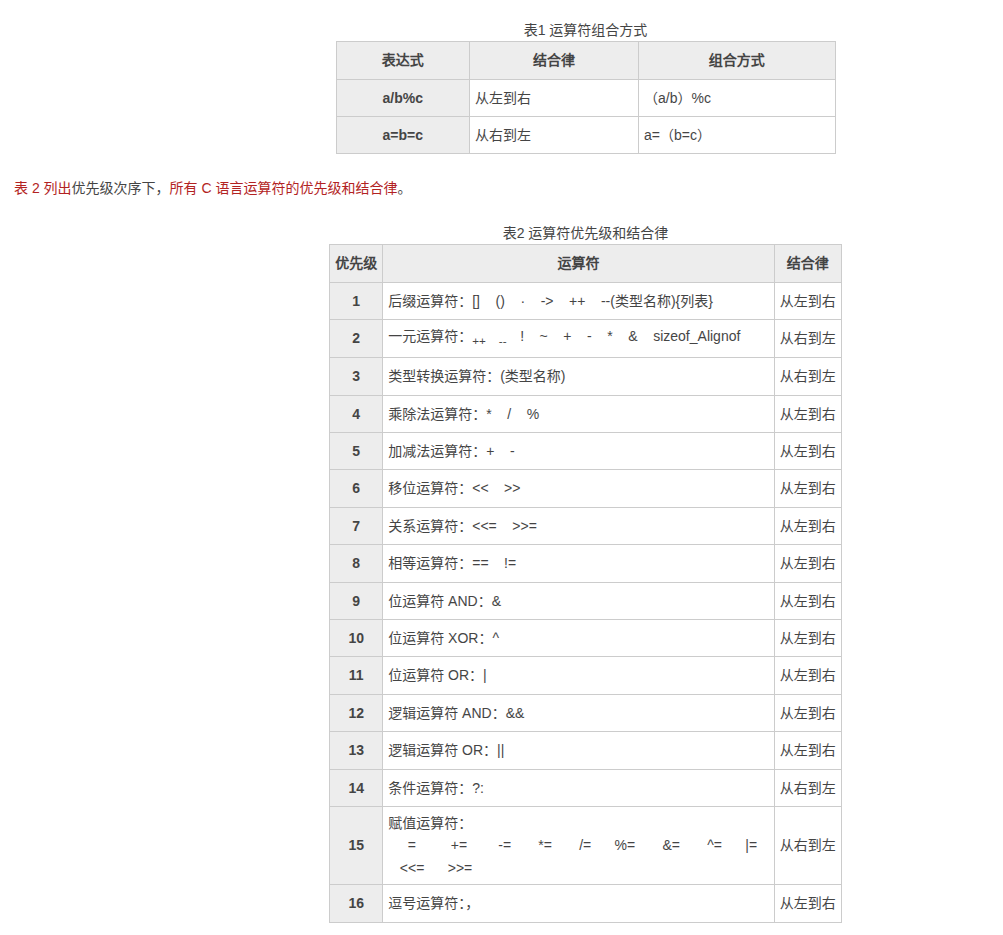
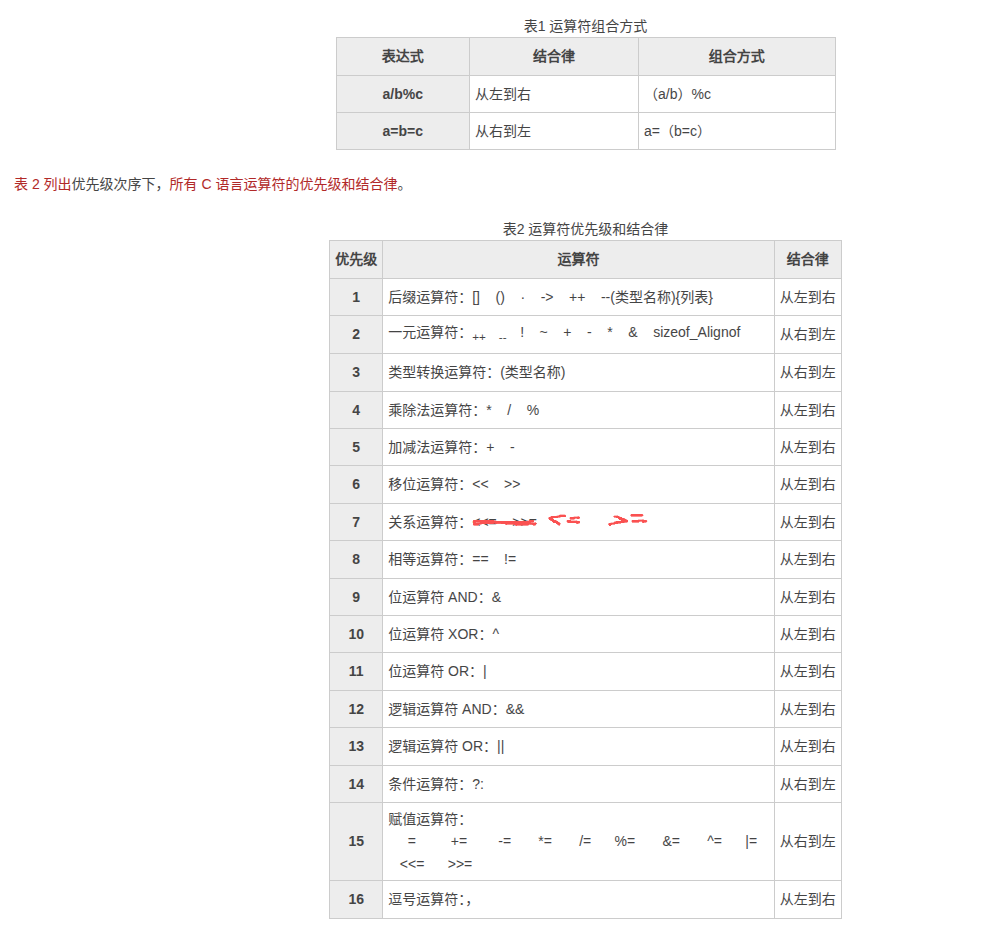
> compile NEMU SUAT25060203 罗智强 Linux zq 6.14.0-37-generic #37~24.04.1-Ubuntu SMP PREEMPT_DYNAMIC Thu Nov 20 10:25:38 UTC 2 x86_64 x86_64 x86_64 GNU/Linux  23:45:53 up 4 days,  5:32,  1 user,  load average: 0.63, 0.76, 0.73

diff --git a/nemu/src/monitor/sdb/expr.c b/nemu/src/monitor/sdb/expr.c
@@ -45,13 +45,15 @@ static struct rule {
   {"&&",TK_AND},                          // 逻辑与     264 
   {"\\|\\|",TK_OR},                       // 逻辑或     265 
   {"[a-zA-Z_][a-zA-Z0-9_]*",TK_VAR},      // 变量名     266
+  
+  {"\\<",'<'},                            // 小于       60
+  {"\\>",'>'},                            // 大于       62
   {"\\+", '+'},                            // 加号       43
   {"-", '-'},                              // 减号       45
   {"\\*", '*'},                            // 乘号       42
   {"/", '/'},                              // 除号       47
   {"\\(", '('},                            // 左括号     40
-  {"\\)", ')'}                             // 右括号     41
-
+  {"\\)", ')'}                            // 右括号     41
 };
 #define NR_REGEX ARRLEN(rules)    // 自动计算rules结构体数组元素个数
 // ==================================自动解析字符串数值================================//
